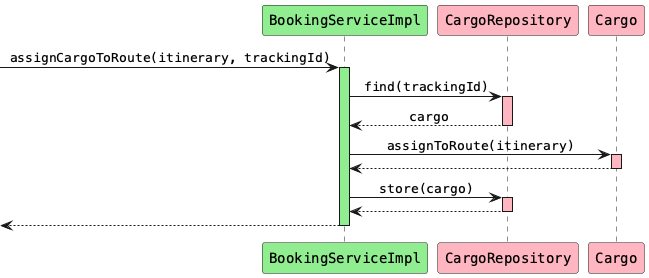
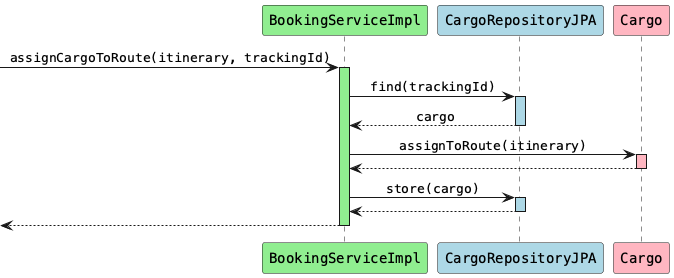
Cursor: use JPA implementations instead of interfaces

diff --git a/Cursor.md b/Cursor.md
@@ -3,7 +3,8 @@ Evaluating [Cursor](https://cursor.com)
 Using [Cursor](https://cursor.com) to help with some tasks:
 
 <!-- TOC -->
-* [Deploy site to GitHub pages using GitHub Actions](#deploy-site-to-github-pages-using-github-actions)
+  * [Deploy site to GitHub pages using GitHub Actions](#deploy-site-to-github-pages-using-github-actions)
+  * [Generate sequence diagrams](#generate-sequence-diagrams)
 <!-- TOC -->
 
 ## Deploy site to GitHub pages using GitHub Actions
@@ -746,3 +747,296 @@ The diagrams are stored in the `src/site/resources/diagrams` folder in three for
 - `.svg` (SVG vector image)
 
 You can find all the generated files in the `src/site/resources/diagrams` directory. Each diagram shows the sequence of method calls and interactions between different components in a clear and visually appealing way.
+
+* Refine the diagrams to use the JPA implementations instead of the interfaces
+
+  I am interested in the implementation not the interfaces so replace the Repository classes in the `domain/model` folder by their JPA implementations 
+
+I'll help you modify the sequence diagrams to use the JPA implementations of the repositories instead of the interfaces. First, let me find the JPA implementations:
+
+Ran tool
+Great! I found the JPA implementations. Now I'll update the sequence diagrams to use these implementations instead of the interfaces. I'll modify each PUML file:
+
+  Cursor found the JPA implementations!
+
+```plantuml:src/site/resources/diagrams/BookingServiceImpl_bookNewCargo.puml
+@startuml
+skinparam monochrome false
+skinparam defaultFontName Courier
+skinparam sequenceMessageAlign center
+
+participant "BookingServiceImpl" as bs #lightgreen
+participant "CargoFactory" as cf #lightpink
+participant "CargoRepositoryJPA" as cr #lightblue
+
+[-> bs: bookNewCargo(originUnLocode,\ndestinationUnLocode,\narrivalDeadline)
+activate bs #lightgreen
+
+bs -> cf: createCargo(originUnLocode,\ndestinationUnLocode,\narrivalDeadline)
+activate cf #lightpink
+cf --> bs: cargo
+deactivate cf
+
+bs -> cr: store(cargo)
+activate cr #lightblue
+cr --> bs
+deactivate cr
+
+[<-- bs: trackingId
+deactivate bs
+
+@enduml
+```
+
+```plantuml:src/site/resources/diagrams/BookingServiceImpl_requestPossibleRoutesForCargo.puml
+@startuml
+skinparam monochrome false
+skinparam defaultFontName Courier
+skinparam sequenceMessageAlign center
+
+participant "BookingServiceImpl" as bs #lightgreen
+participant "CargoRepositoryJPA" as cr #lightblue
+participant "RoutingService" as rs #lightyellow
+
+[-> bs: requestPossibleRoutesForCargo(trackingId)
+activate bs #lightgreen
+
+bs -> cr: find(trackingId)
+activate cr #lightblue
+cr --> bs: cargo
+deactivate cr
+
+bs -> cargo: routeSpecification()
+activate cargo #lightpink
+cargo --> bs: specification
+deactivate cargo
+
+bs -> rs: fetchRoutesForSpecification(specification)
+activate rs #lightyellow
+rs --> bs: itineraries
+deactivate rs
+
+[<-- bs: itineraries
+deactivate bs
+
+@enduml
+```
+
+```plantuml:src/site/resources/diagrams/BookingServiceImpl_assignCargoToRoute.puml
+@startuml
+skinparam monochrome false
+skinparam defaultFontName Courier
+skinparam sequenceMessageAlign center
+
+participant "BookingServiceImpl" as bs #lightgreen
+participant "CargoRepositoryJPA" as cr #lightblue
+participant "Cargo" as c #lightpink
+
+[-> bs: assignCargoToRoute(itinerary, trackingId)
+activate bs #lightgreen
+
+bs -> cr: find(trackingId)
+activate cr #lightblue
+cr --> bs: cargo
+deactivate cr
+
+bs -> c: assignToRoute(itinerary)
+activate c #lightpink
+c --> bs
+deactivate c
+
+bs -> cr: store(cargo)
+activate cr #lightblue
+cr --> bs
+deactivate cr
+
+[<-- bs
+deactivate bs
+
+@enduml
+```
+
+```plantuml:src/site/resources/diagrams/BookingServiceImpl_changeDestination.puml
+@startuml
+skinparam monochrome false
+skinparam defaultFontName Courier
+skinparam sequenceMessageAlign center
+
+participant "BookingServiceImpl" as bs #lightgreen
+participant "CargoRepositoryJPA" as cr #lightblue
+participant "LocationRepositoryJPA" as lr #lightblue
+participant "Cargo" as c #lightpink
+
+[-> bs: changeDestination(trackingId, unLocode)
+activate bs #lightgreen
+
+bs -> cr: find(trackingId)
+activate cr #lightblue
+cr --> bs: cargo
+deactivate cr
+
+bs -> lr: find(unLocode)
+activate lr #lightblue
+lr --> bs: newDestination
+deactivate lr
+
+bs -> c: origin()
+activate c #lightpink
+c --> bs: origin
+deactivate c
+
+bs -> c: routeSpecification()
+activate c #lightpink
+c --> bs: specification
+deactivate c
+
+bs -> c: specifyNewRoute(routeSpecification)
+activate c #lightpink
+c --> bs
+deactivate c
+
+bs -> cr: store(cargo)
+activate cr #lightblue
+cr --> bs
+deactivate cr
+
+[<-- bs
+deactivate bs
+
+@enduml
+```
+
+```plantuml:src/site/resources/diagrams/CargoInspectionServiceImpl_inspectCargo.puml
+@startuml
+skinparam monochrome false
+skinparam defaultFontName Courier
+skinparam sequenceMessageAlign center
+
+participant "CargoInspectionServiceImpl" as cis #lightgreen
+participant "CargoRepositoryJPA" as cr #lightblue
+participant "HandlingEventRepositoryJPA" as her #lightblue
+participant "Cargo" as c #lightpink
+participant "ApplicationEvents" as ae #lightgreen
+
+[-> cis: inspectCargo(trackingId)
+activate cis #lightgreen
+
+cis -> cr: find(trackingId)
+activate cr #lightblue
+cr --> cis: cargo
+deactivate cr
+
+cis -> her: lookupHandlingHistoryOfCargo(trackingId)
+activate her #lightblue
+her --> cis: handlingHistory
+deactivate her
+
+cis -> c: deriveDeliveryProgress(handlingHistory)
+activate c #lightpink
+c --> cis
+deactivate c
+
+cis -> c: delivery()
+activate c #lightpink
+c --> cis: delivery
+deactivate c
+
+cis -> delivery: isMisdirected()
+activate delivery #lightpink
+delivery --> cis: misdirected
+deactivate delivery
+
+alt misdirected
+    cis -> ae: cargoWasMisdirected(cargo)
+    activate ae #lightgreen
+    ae --> cis
+    deactivate ae
+end
+
+cis -> delivery: isUnloadedAtDestination()
+activate delivery #lightpink
+delivery --> cis: atDestination
+deactivate delivery
+
+alt atDestination
+    cis -> ae: cargoHasArrived(cargo)
+    activate ae #lightgreen
+    ae --> cis
+    deactivate ae
+end
+
+cis -> cr: store(cargo)
+activate cr #lightblue
+cr --> cis
+deactivate cr
+
+[<-- cis
+deactivate cis
+
+@enduml
+```
+
+```plantuml:src/site/resources/diagrams/HandlingEventServiceImpl_registerHandlingEvent.puml
+@startuml
+skinparam monochrome false
+skinparam defaultFontName Courier
+skinparam sequenceMessageAlign center
+
+participant "HandlingEventServiceImpl" as hes #lightgreen
+participant "HandlingEventFactory" as hef #lightpink
+participant "HandlingEventRepositoryJPA" as her #lightblue
+participant "ApplicationEvents" as ae #lightgreen
+
+[-> hes: registerHandlingEvent(completionTime,\ntrackingId, voyageNumber,\nunLocode, type)
+activate hes #lightgreen
+
+hes -> hef: createHandlingEvent(registrationTime,\ncompletionTime, trackingId,\nvoyageNumber, unLocode, type)
+activate hef #lightpink
+hef --> hes: event
+deactivate hef
+
+hes -> her: store(event)
+activate her #lightblue
+her --> hes
+deactivate her
+
+hes -> ae: cargoWasHandled(event)
+activate ae #lightgreen
+ae --> hes
+deactivate ae
+
+[<-- hes
+deactivate hes
+
+@enduml
+```
+Now let's regenerate the PNG files with scale 2:
+
+```bash
+plantuml -tpng -scale 2 *.puml
+```
+I've updated all the sequence diagrams to use the JPA implementations instead of the repository interfaces. The changes include:
+
+1. Replaced `CargoRepository` with `CargoRepositoryJPA`
+2. Replaced `LocationRepository` with `LocationRepositoryJPA`
+3. Replaced `HandlingEventRepository` with `HandlingEventRepositoryJPA`
+
+All JPA implementations are now colored in lightblue (as they are in the `infrastructure` layer) instead of lightpink (which was used for the `domain/model` interfaces).
+
+The PNG files have been regenerated with a scale factor of 2. You can find all the updated diagrams in the `src/site/resources/diagrams` directory.
+
+  Can you also regenerate the svg files?
+  Everytime anything is modified, please regenerate both png and svg files.
+
+I'll regenerate both PNG and SVG files:
+
+```bash
+plantuml -tpng -tsvg -scale 2 *.puml
+```
+Let's verify that both PNG and SVG files were generated:
+
+```bash
+ls -l *.{png,svg}
+```
+Perfect! Both PNG and SVG files have been generated for all diagrams with the scale factor of 2. You can find all the files in the `src/site/resources/diagrams` directory. From now on, I'll make sure to regenerate both PNG and SVG files whenever any changes are made to the diagrams.
+
